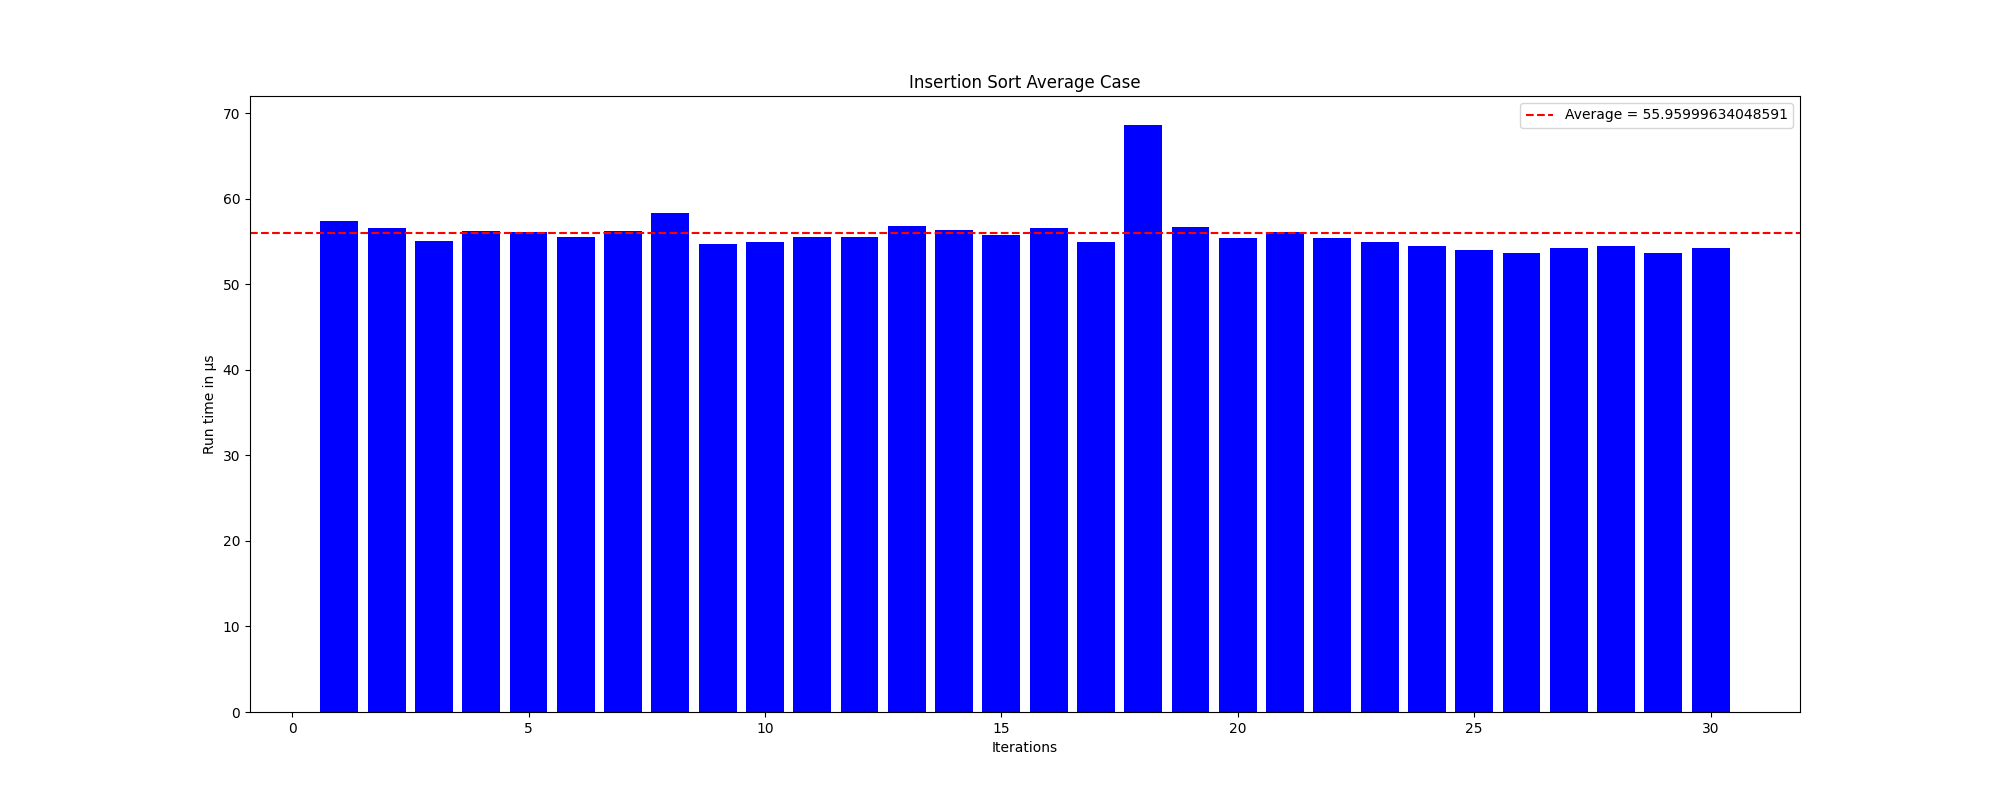
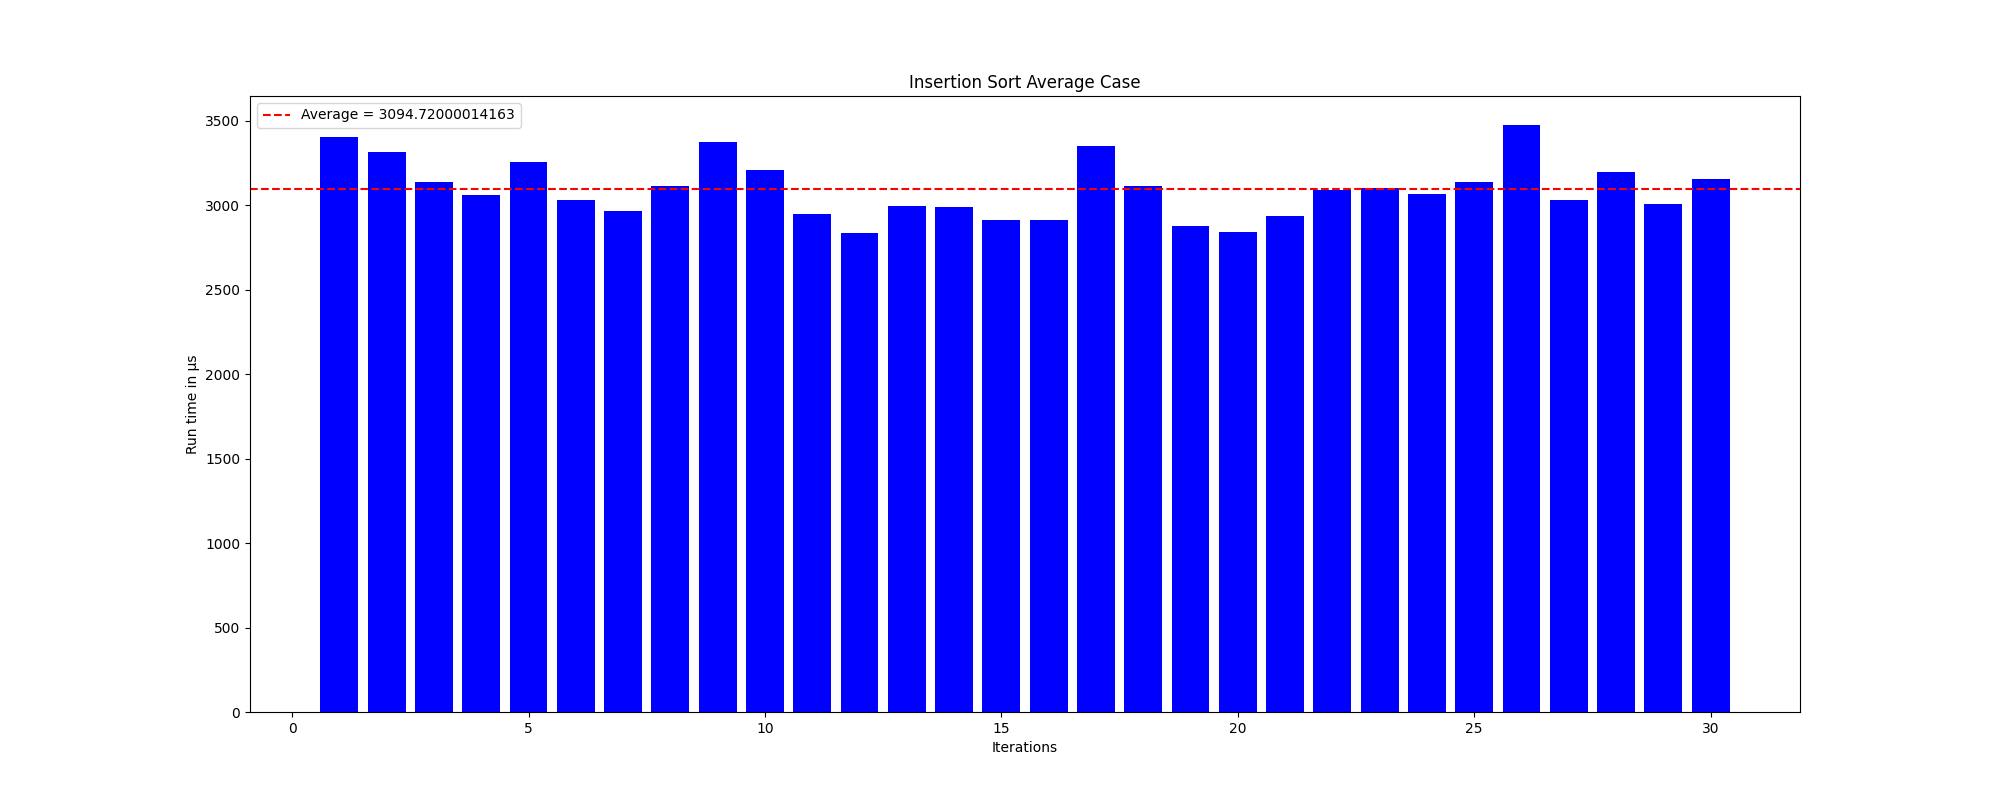
nearly done

diff --git a/Lab 3/Graded_Lab_3.py b/Lab 3/Graded_Lab_3.py
@@ -118,7 +118,7 @@ def experiment_part_2():
     # your implementation for part 2 goes here
     insertion_times = []
     hybrid_times = []
- 
+    '''
     # This is a test for the average case
     # The average case for these sorts would be random since the it avoids the worst case and best case for insertion sort.
     for _ in range (30):
@@ -135,7 +135,7 @@ def experiment_part_2():
         insertion_sort(insertion_list)
         end = timeit.default_timer()
         insertion_times.append((end - start) * 1000000)
-    
+    '''
     '''
     # This is a test for the worst case
    
@@ -156,7 +156,7 @@ def experiment_part_2():
         end = timeit.default_timer()
         insertion_times.append((end - start) * 1000000)
     '''
-    '''
+    
     # This is a test for the best case  
     for _ in range (30):
         random_list = create_random_list(500, 5000)
@@ -173,9 +173,9 @@ def experiment_part_2():
         insertion_sort(insertion_list)
         end = timeit.default_timer()
         insertion_times.append((end - start) * 1000000)
-    '''
-    draw_plot(insertion_times, np.mean(insertion_times), "Insertion Sort Random Case", "insertion_sort_random.png")
-    draw_plot(hybrid_times, np.mean(hybrid_times), "Hybrid Sort Random Case", "Hybrid_sort_random.png")
+    
+    draw_plot(insertion_times, np.mean(insertion_times), "Insertion Sort Best Case", "insertion_sort_best.png")
+    draw_plot(hybrid_times, np.mean(hybrid_times), "Hybrid Sort Best Case", "Hybrid_sort_best.png")
 
     return 0
 
@@ -299,9 +299,29 @@ class DynamicArrays():
     def binary_search_dynamic(self, target):
         return self.search(target)
     
+def insert_normal(L, element):
+    low = 0
+    high = len(L)
+    while low < high:
+        mid = (low + high) // 2
+        if L[mid] < element:
+            low = mid + 1
+        else:
+            high = mid - 1
+    
+    index = low
+
+    L.append(element)
+
+    for i in range (len(L) - 1,index, -1):
+        L[i] = L[i-1]
+
+    return
+
 def experiment_part_4():
 
-     # your implementation for part 4 goes here
+    # your implementation for part 4 goes here
+    
     one_times = []
     two_times = []
     three_times = []
@@ -339,8 +359,31 @@ def experiment_part_4():
     draw_plot(two_times, np.mean(two_times), "Binary Search 2 performance", "binary2.png") 
     draw_plot(three_times, np.mean(three_times), "Binary Search 3 performance", "binary3.png")     
     draw_plot(dynamic_times, np.mean(dynamic_times), "Dynamic Array performance", "dynamic.png") 
+    
+    insert_normal_times = []
+    dynamic_array_insert = []
+
+    for _ in range (30):
+        L = []
+        start = timeit.default_timer()
+        for _ in range(500):
+            num = random.randint(0,5000)
+            insert_normal(L, num)
+        end = timeit.default_timer()
+        insert_normal_times.append((end - start) * 1000000)
+
+    for _ in range (30):
+        Dynamic = DynamicArrays()
+        start = timeit.default_timer()
+        for _ in range(500):
+            num = random.randint(0,5000)
+            Dynamic.insert
+        end = timeit.default_timer()
+        dynamic_array_insert.append((end - start) * 1000000)
 
 
+    draw_plot(insert_normal_times, np.mean(insert_normal_times), "Insert on normal array performance", "insert1.png")
+    draw_plot(dynamic_array_insert, np.mean(dynamic_array_insert), "Insert on dynamic array performance", "dynamicinsert.png")    
     return 0
 
 # binary search  implementation 1 against which you must compare the performance of Part 3 
